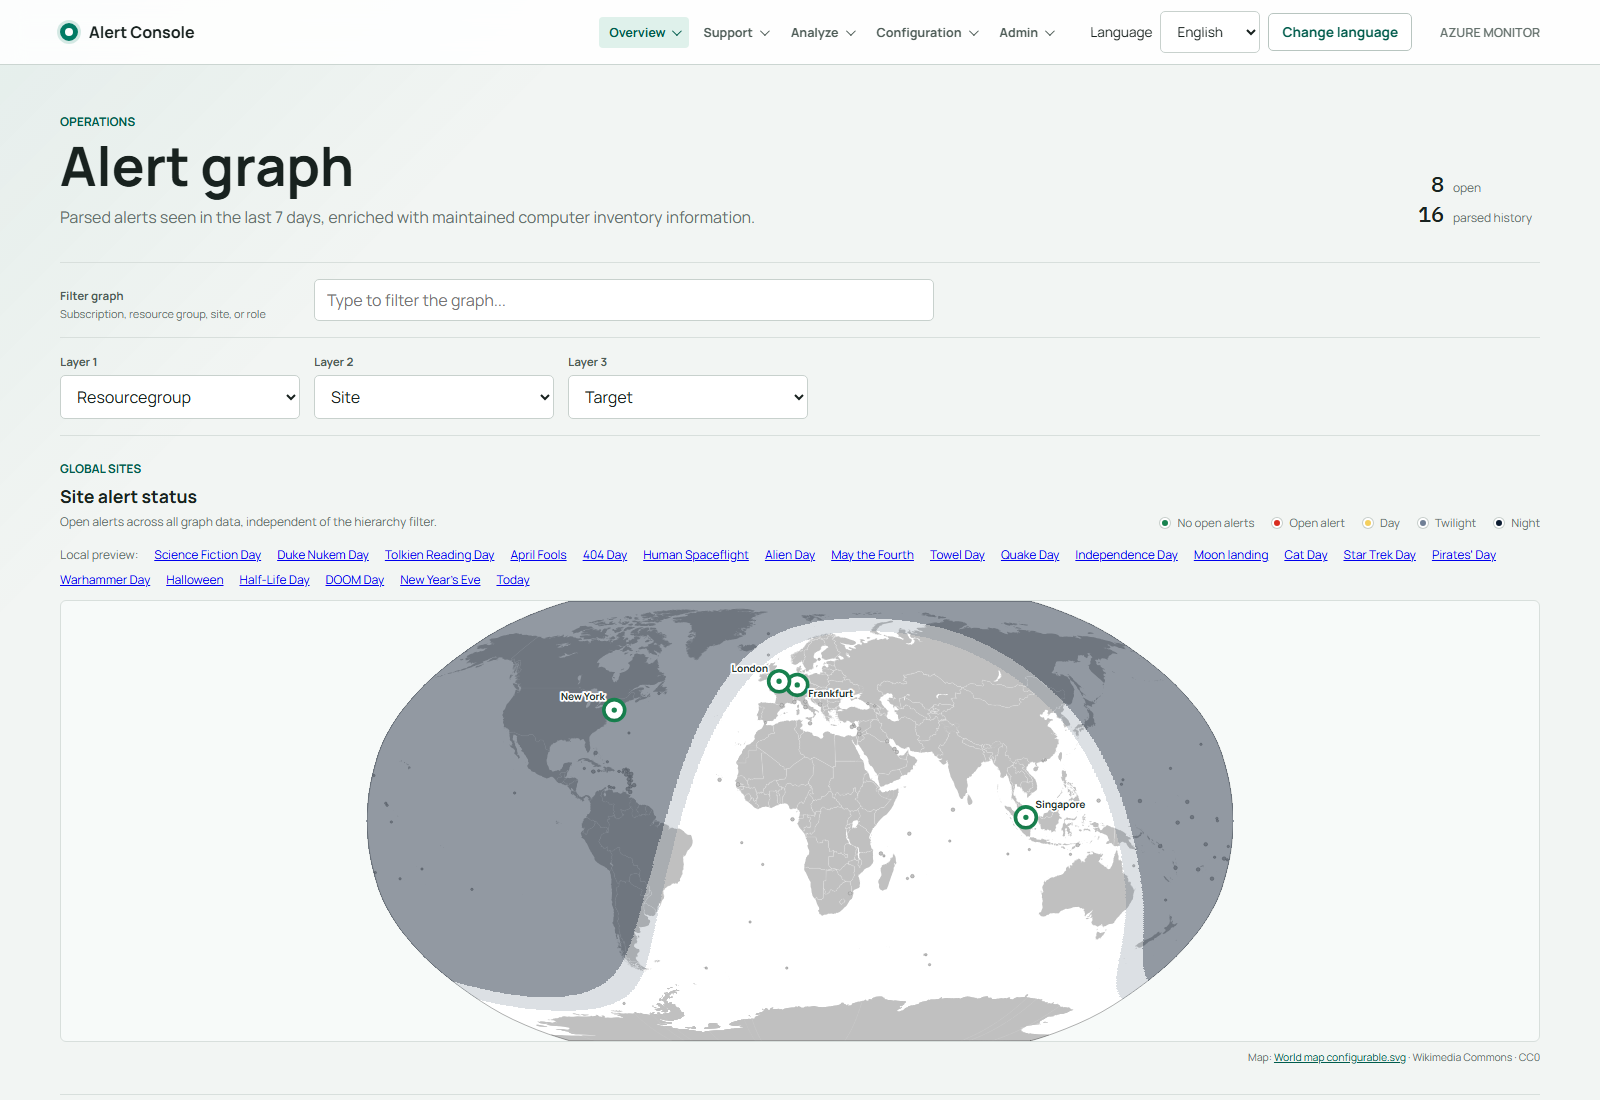
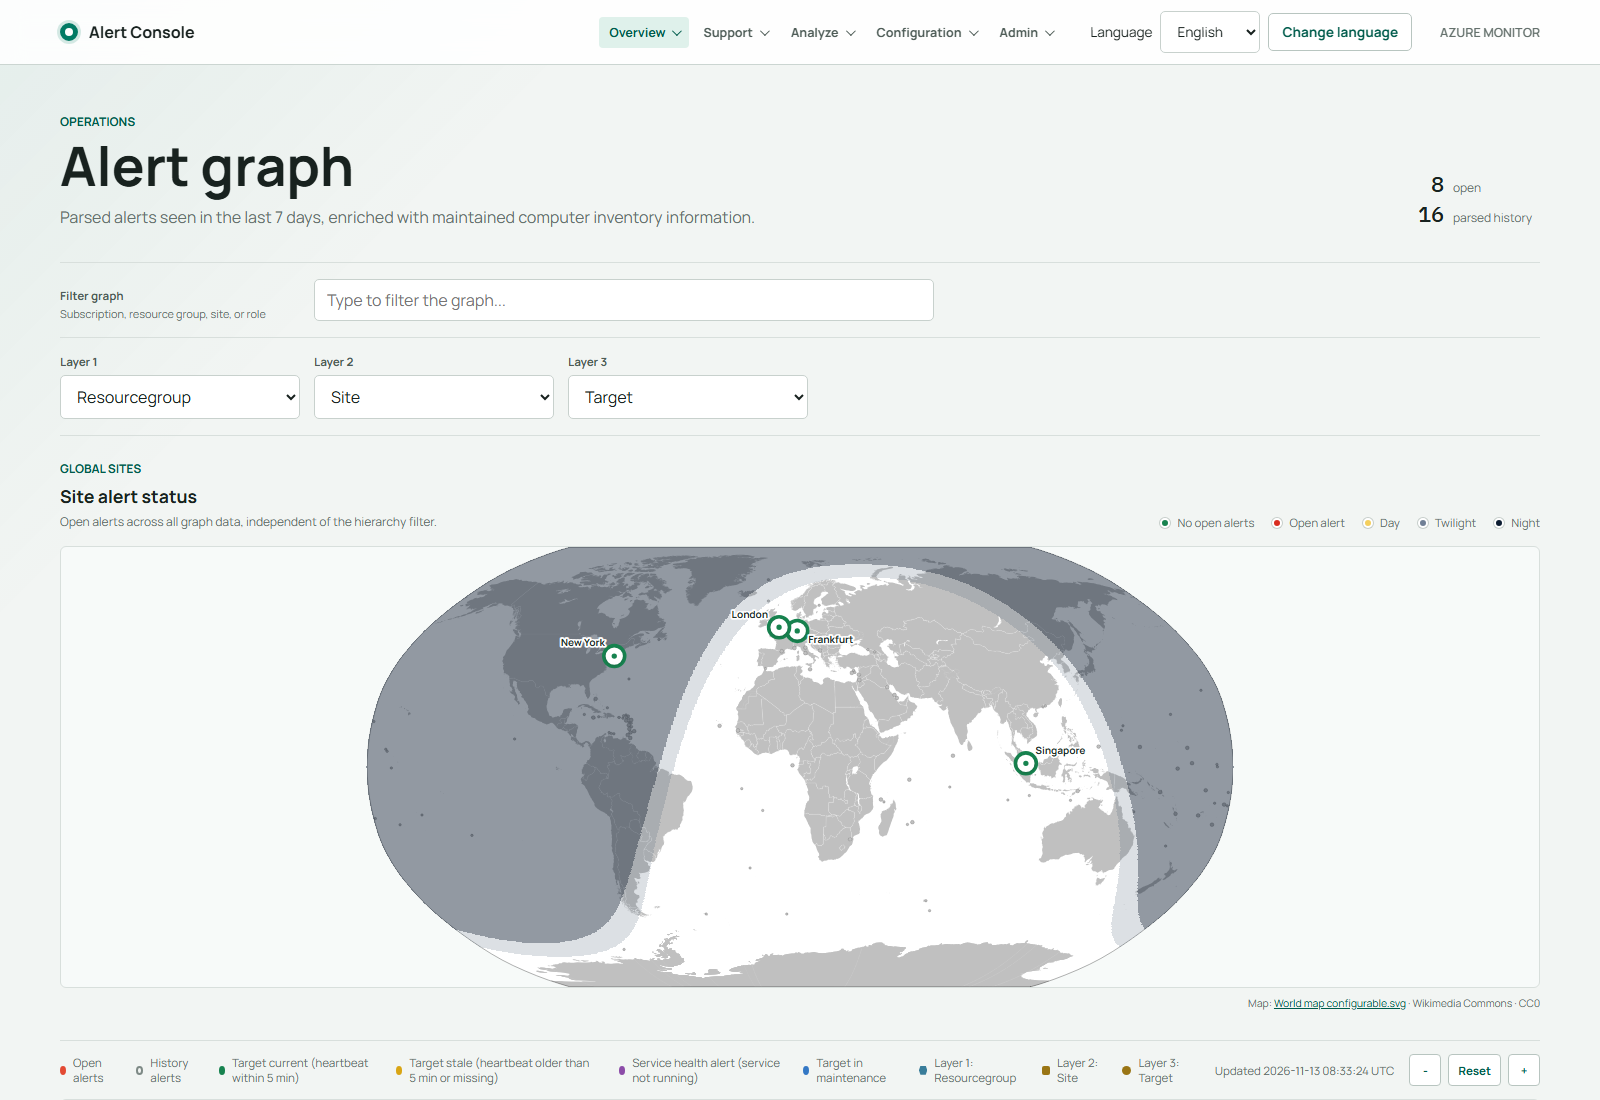
Correction

Changed region(s): [[0.0312, 0.4945, 0.9688, 1.0], [0.7812, 0.8964, 0.9688, 0.9273]]

diff --git a/PlaywrightDemo/tests/DocumentationScreenshotTests.cs b/PlaywrightDemo/tests/DocumentationScreenshotTests.cs
@@ -9,13 +9,16 @@ namespace PlaywrightDemo.Tests;
 [NonParallelizable]
 public sealed class DocumentationScreenshotTests : PageTest
 {
-    [Test]
-    public async Task CaptureCurrentLocalApplication()
+    private string directory = "";
+    private string baseUrl = "";
+
+    [SetUp]
+    public async Task ConfigureCapture()
     {
-        var directory = Environment.GetEnvironmentVariable("ALERT_CONSOLE_SCREENSHOT_DIRECTORY");
+        directory = Environment.GetEnvironmentVariable("ALERT_CONSOLE_SCREENSHOT_DIRECTORY") ?? "";
         if (string.IsNullOrWhiteSpace(directory))
             Assert.Ignore("Set ALERT_CONSOLE_SCREENSHOT_DIRECTORY to explicitly regenerate documentation images.");
-        var baseUrl = AlertConsoleUrlResolver.Resolve().TrimEnd('/');
+        baseUrl = AlertConsoleUrlResolver.Resolve().TrimEnd('/');
         Assert.That(new Uri(baseUrl).IsLoopback, Is.True, "Documentation captures must use the local instance.");
         directory = Path.GetFullPath(directory!);
         Assert.That(Directory.Exists(directory), Is.True);
@@ -24,7 +27,11 @@ public sealed class DocumentationScreenshotTests : PageTest
         {
             Name = ".MonitoringApp.UiCulture", Value = Uri.EscapeDataString("c=en-US|uic=en-US"), Url = baseUrl
         }]);
+    }
 
+    [Test]
+    public async Task CaptureCurrentLocalApplication()
+    {
         await Open("/");
         await Capture("Inbox.png");
         await Page.Locator(".inbox-results-widget").ScreenshotAsync(new()
@@ -32,7 +39,7 @@ public sealed class DocumentationScreenshotTests : PageTest
             Path = Path.Combine(directory, "InboxDetails.png"), Animations = ScreenshotAnimations.Disabled
         });
         await Open("/graph");
-        await Capture("Graph.png");
+        await CaptureGraph();
         await Open("/admin/inventory");
         await Capture("Inventory.png");
         await Open("/analysis");
@@ -83,22 +90,51 @@ public sealed class DocumentationScreenshotTests : PageTest
         });
         await Open("/");
         TestContext.WriteLine("Captured 17 current local UI images. No queries executed, settings saved, demo data inserted or results simulated.");
+    }
 
-        async Task Open(string path)
-        {
-            await Page.GotoAsync(baseUrl + path);
-            await Page.WaitForLoadStateAsync(LoadState.NetworkIdle);
-            await Expect(Page.Locator("[data-language-selector]")).ToHaveAttributeAsync("data-current-culture", "en-US");
-            await Expect(Page.Locator("#blazor-error-ui")).Not.ToBeVisibleAsync();
-        }
+    [Test]
+    public async Task CaptureAlertGraphWithoutEasterEggs()
+    {
+        await Open("/graph");
+        await CaptureGraph();
+    }
 
-        async Task Capture(string file)
+    private async Task CaptureGraph()
+    {
+        const string decorations = ".graph-easter-preview, .graph-offworld-sites, .graph-earth-easter-site, " +
+            ".graph-easter-orbit, .graph-moon-panel, .graph-mars-panel, .easter-egg-icon";
+        var style = await Page.AddStyleTagAsync(new()
         {
-            await Page.ScreenshotAsync(new()
-            {
-                Path = Path.Combine(directory, file), FullPage = false, Animations = ScreenshotAnimations.Disabled
-            });
-            TestContext.WriteLine($"Captured {file}: {await Page.TitleAsync()}");
+            Content = decorations + " { display: none !important; } " +
+                ".graph-site-map-bodies { grid-template-columns: minmax(0, 1fr) !important; " +
+                "gap: 0 !important; padding: 0 !important; background: transparent !important; }"
+        });
+        try
+        {
+            foreach (var decoration in await Page.Locator(decorations).AllAsync())
+                await Expect(decoration).Not.ToBeVisibleAsync();
+            await Expect(Page.Locator(".graph-site-map-svg")).ToBeVisibleAsync();
+            foreach (var marker in await Page.Locator(".graph-site-marker").AllAsync())
+                await Expect(marker).ToBeVisibleAsync();
+            await Capture("Graph.png");
         }
+        finally { await style.EvaluateAsync("element => element.remove()"); }
+    }
+
+    private async Task Open(string path)
+    {
+        await Page.GotoAsync(baseUrl + path);
+        await Page.WaitForLoadStateAsync(LoadState.NetworkIdle);
+        await Expect(Page.Locator("[data-language-selector]")).ToHaveAttributeAsync("data-current-culture", "en-US");
+        await Expect(Page.Locator("#blazor-error-ui")).Not.ToBeVisibleAsync();
+    }
+
+    private async Task Capture(string file)
+    {
+        await Page.ScreenshotAsync(new()
+        {
+            Path = Path.Combine(directory, file), FullPage = false, Animations = ScreenshotAnimations.Disabled
+        });
+        TestContext.WriteLine($"Captured {file}: {await Page.TitleAsync()}");
     }
 }
